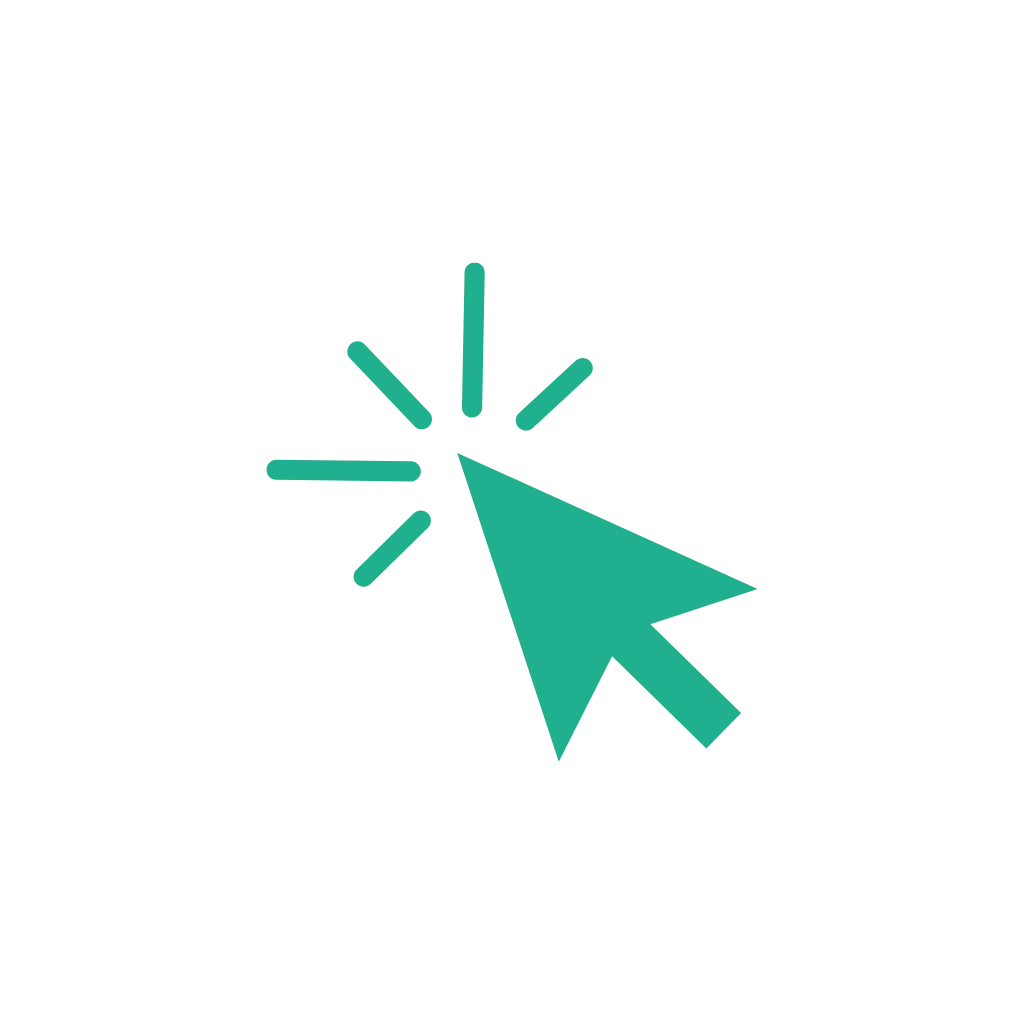
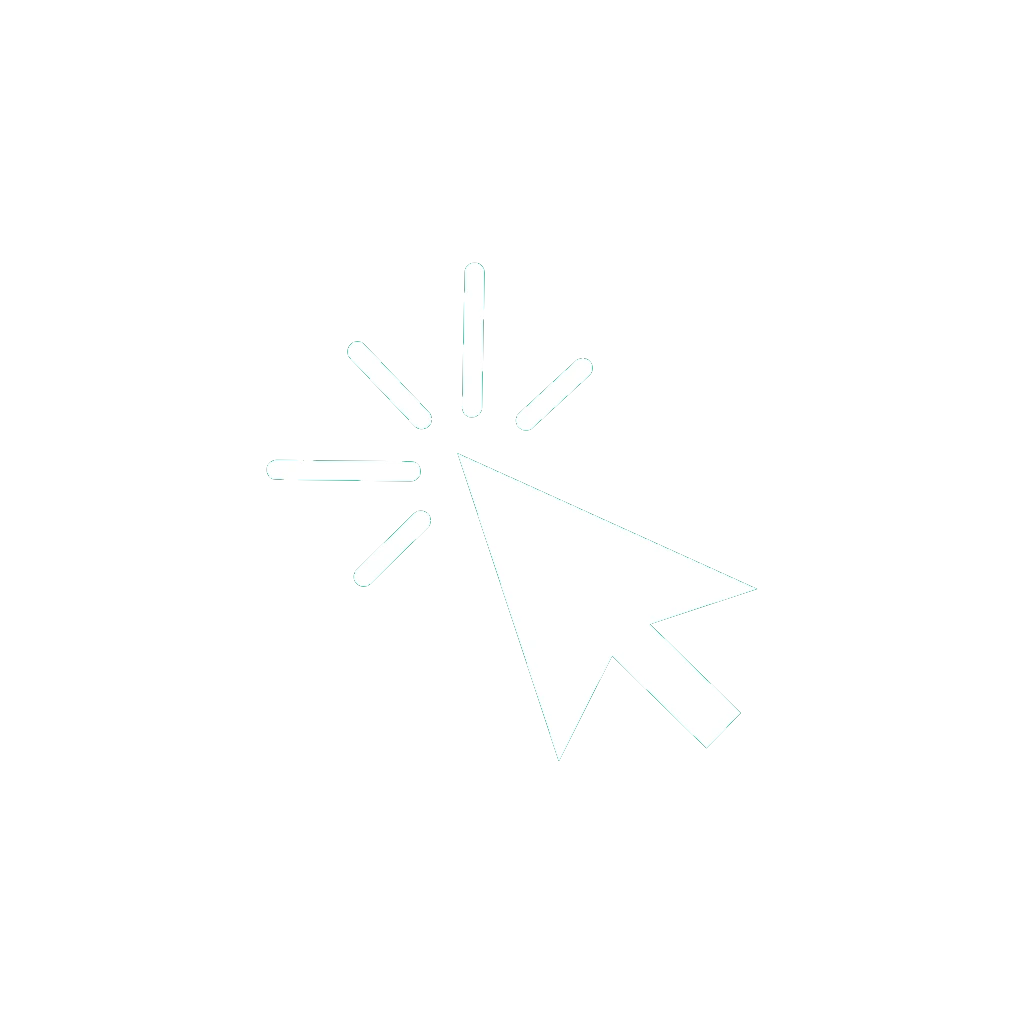
Saving latest changes

diff --git a/src/iconMap.js b/src/iconMap.js
@@ -19,11 +19,13 @@ import CalenderIconAsset from './assets/Calender Icon.webp';
 import CameraAsset from './assets/Camera.webp';
 import ChargingPlugAsset from './assets/ChargingPlug.webp';
 import CheckmarkAsset from './assets/Checkmark.webp';
+import CheckmarkWhiteAsset from './assets/CheckmarkWhite.webp';
 import ClockAsset from './assets/Clock.webp';
 import CloseAsset from './assets/Close.webp';
 import ClubAsset from './assets/Club.webp';
 import CoffeeAsset from './assets/Coffee.webp';
 import CoinsAsset from './assets/Coins.webp';
+import CoinsWhiteAsset from './assets/CoinsWhite.webp';
 import CollabrativeTablesAsset from './assets/Collabrative Tables.webp';
 import CommentAsset from './assets/Comment.webp';
 import ComplimentaryRefreshmentsAsset from './assets/ComplimentaryRefreshments.webp';
@@ -41,6 +43,7 @@ import DownloadAsset from './assets/Download.webp';
 import DrinksAsset from './assets/Drinks.webp';
 import EditAsset from './assets/Edit.webp';
 import EmailAsset from './assets/Email.webp';
+import Email1Asset from './assets/Email1.webp';
 import EmployeeManagementAsset from './assets/EmployeeManagement.webp';
 import EntitiesAsset from './assets/Entities.webp';
 import EntityOwnerAsset from './assets/EntityOwner.webp';
@@ -67,6 +70,7 @@ import JoinUsAsset from './assets/JoinUs.webp';
 import LateNightHoursAsset from './assets/LateNightHours.webp';
 import LayerGroupAsset from './assets/Layer Group.webp';
 import LeftArrowAsset from './assets/Left Arrow.webp';
+import LeftArrowWhiteAsset from './assets/LeftArrowWhite.webp';
 import LeisureIntegrationAsset from './assets/LeisureIntegration.webp';
 import LightningIconAsset from './assets/Lightning Icon.webp';
 import LinkedinAsset from './assets/Linkedin.webp';
@@ -85,8 +89,10 @@ import MinusAsset from './assets/Minus.webp';
 import MobileAsset from './assets/Mobile.webp';
 import MoreOptionsAsset from './assets/More Options.webp';
 import MousePointerAsset from './assets/Mouse Pointer.webp';
+import MousePointer2Asset from './assets/Mouse Pointer2.webp';
 import MyBookingsAsset from './assets/MyBookings.webp';
 import MyCreditsAsset from './assets/MyCredits.webp';
+import MyCreditsWhiteAsset from './assets/MyCreditsWhite.webp';
 import MyOrganizationAsset from './assets/MyOrganization.webp';
 import MySubscriptionAsset from './assets/MySubscription.webp';
 import NatureFriendlyAsset from './assets/Nature Friendly.webp';
@@ -106,8 +112,10 @@ import PetFriendlyAsset from './assets/Pet Friendly.webp';
 import PetFriendly2Asset from './assets/PetFriendly.webp';
 import PhoneAsset from './assets/Phone.webp';
 import PhoneNumberAsset from './assets/PhoneNumber.webp';
+import PhoneNumber1Asset from './assets/PhoneNumber1.webp';
 import PlansAsset from './assets/Plans.webp';
 import PlusAsset from './assets/Plus.webp';
+import PlusWhiteAsset from './assets/PlusWhite.webp';
 import PoolTableAsset from './assets/PoolTable.webp';
 import PrimeLocationsAsset from './assets/PrimeLocations.webp';
 import PrinterAsset from './assets/Printer.webp';
@@ -127,6 +135,7 @@ import RestroomAsset from './assets/Restroom.webp';
 import RevenueEnhancementAsset from './assets/RevenueEnhancement.webp';
 import RewindAsset from './assets/Rewind.webp';
 import RightArrowAsset from './assets/Right Arrow.webp';
+import RightArrowWhiteAsset from './assets/RightArrowWhite.webp';
 import RupeeAsset from './assets/Rupee.webp';
 import SaveAsset from './assets/Save.webp';
 import SearchAsset from './assets/Search.webp';
@@ -196,11 +205,13 @@ export const iconMap = {
   "Camera": CameraAsset,
   "ChargingPlug": ChargingPlugAsset,
   "Checkmark": CheckmarkAsset,
+  "CheckmarkWhite": CheckmarkWhiteAsset,
   "Clock": ClockAsset,
   "Close": CloseAsset,
   "Club": ClubAsset,
   "Coffee": CoffeeAsset,
   "Coins": CoinsAsset,
+  "CoinsWhite": CoinsWhiteAsset,
   "CollabrativeTables": CollabrativeTablesAsset,
   "Comment": CommentAsset,
   "ComplimentaryRefreshments": ComplimentaryRefreshmentsAsset,
@@ -218,6 +229,7 @@ export const iconMap = {
   "Drinks": DrinksAsset,
   "Edit": EditAsset,
   "Email": EmailAsset,
+  "Email1": Email1Asset,
   "EmployeeManagement": EmployeeManagementAsset,
   "Entities": EntitiesAsset,
   "EntityOwner": EntityOwnerAsset,
@@ -244,6 +256,7 @@ export const iconMap = {
   "LateNightHours": LateNightHoursAsset,
   "LayerGroup": LayerGroupAsset,
   "LeftArrow": LeftArrowAsset,
+  "LeftArrowWhite": LeftArrowWhiteAsset,
   "LeisureIntegration": LeisureIntegrationAsset,
   "LightningIcon": LightningIconAsset,
   "Linkedin": LinkedinAsset,
@@ -262,8 +275,10 @@ export const iconMap = {
   "Mobile": MobileAsset,
   "MoreOptions": MoreOptionsAsset,
   "MousePointer": MousePointerAsset,
+  "MousePointer2": MousePointer2Asset,
   "MyBookings": MyBookingsAsset,
   "MyCredits": MyCreditsAsset,
+  "MyCreditsWhite": MyCreditsWhiteAsset,
   "MyOrganization": MyOrganizationAsset,
   "MySubscription": MySubscriptionAsset,
   "NatureFriendly": NatureFriendlyAsset,
@@ -283,8 +298,10 @@ export const iconMap = {
   "PetFriendly_2": PetFriendly2Asset,
   "Phone": PhoneAsset,
   "PhoneNumber": PhoneNumberAsset,
+  "PhoneNumber1": PhoneNumber1Asset,
   "Plans": PlansAsset,
   "Plus": PlusAsset,
+  "PlusWhite": PlusWhiteAsset,
   "PoolTable": PoolTableAsset,
   "PrimeLocations": PrimeLocationsAsset,
   "Printer": PrinterAsset,
@@ -304,6 +321,7 @@ export const iconMap = {
   "RevenueEnhancement": RevenueEnhancementAsset,
   "Rewind": RewindAsset,
   "RightArrow": RightArrowAsset,
+  "RightArrowWhite": RightArrowWhiteAsset,
   "Rupee": RupeeAsset,
   "Save": SaveAsset,
   "Search": SearchAsset,

diff --git a/flutter_lib/lib/icon_map.dart b/flutter_lib/lib/icon_map.dart
@@ -22,11 +22,13 @@ class IconMap {
     'Camera': 'assets/icons/Camera.webp',
     'ChargingPlug': 'assets/icons/ChargingPlug.webp',
     'Checkmark': 'assets/icons/Checkmark.webp',
+    'CheckmarkWhite': 'assets/icons/CheckmarkWhite.webp',
     'Clock': 'assets/icons/Clock.webp',
     'Close': 'assets/icons/Close.webp',
     'Club': 'assets/icons/Club.webp',
     'Coffee': 'assets/icons/Coffee.webp',
     'Coins': 'assets/icons/Coins.webp',
+    'CoinsWhite': 'assets/icons/CoinsWhite.webp',
     'CollabrativeTables': 'assets/icons/Collabrative Tables.webp',
     'Comment': 'assets/icons/Comment.webp',
     'ComplimentaryRefreshments': 'assets/icons/ComplimentaryRefreshments.webp',
@@ -44,6 +46,7 @@ class IconMap {
     'Drinks': 'assets/icons/Drinks.webp',
     'Edit': 'assets/icons/Edit.webp',
     'Email': 'assets/icons/Email.webp',
+    'Email1': 'assets/icons/Email1.webp',
     'EmployeeManagement': 'assets/icons/EmployeeManagement.webp',
     'Entities': 'assets/icons/Entities.webp',
     'EntityOwner': 'assets/icons/EntityOwner.webp',
@@ -70,6 +73,7 @@ class IconMap {
     'LateNightHours': 'assets/icons/LateNightHours.webp',
     'LayerGroup': 'assets/icons/Layer Group.webp',
     'LeftArrow': 'assets/icons/Left Arrow.webp',
+    'LeftArrowWhite': 'assets/icons/LeftArrowWhite.webp',
     'LeisureIntegration': 'assets/icons/LeisureIntegration.webp',
     'LightningIcon': 'assets/icons/Lightning Icon.webp',
     'Linkedin': 'assets/icons/Linkedin.webp',
@@ -88,8 +92,10 @@ class IconMap {
     'Mobile': 'assets/icons/Mobile.webp',
     'MoreOptions': 'assets/icons/More Options.webp',
     'MousePointer': 'assets/icons/Mouse Pointer.webp',
+    'MousePointer2': 'assets/icons/Mouse Pointer2.webp',
     'MyBookings': 'assets/icons/MyBookings.webp',
     'MyCredits': 'assets/icons/MyCredits.webp',
+    'MyCreditsWhite': 'assets/icons/MyCreditsWhite.webp',
     'MyOrganization': 'assets/icons/MyOrganization.webp',
     'MySubscription': 'assets/icons/MySubscription.webp',
     'NatureFriendly': 'assets/icons/Nature Friendly.webp',
@@ -109,8 +115,10 @@ class IconMap {
     'PetFriendly_2': 'assets/icons/PetFriendly.webp',
     'Phone': 'assets/icons/Phone.webp',
     'PhoneNumber': 'assets/icons/PhoneNumber.webp',
+    'PhoneNumber1': 'assets/icons/PhoneNumber1.webp',
     'Plans': 'assets/icons/Plans.webp',
     'Plus': 'assets/icons/Plus.webp',
+    'PlusWhite': 'assets/icons/PlusWhite.webp',
     'PoolTable': 'assets/icons/PoolTable.webp',
     'PrimeLocations': 'assets/icons/PrimeLocations.webp',
     'Printer': 'assets/icons/Printer.webp',
@@ -130,6 +138,7 @@ class IconMap {
     'RevenueEnhancement': 'assets/icons/RevenueEnhancement.webp',
     'Rewind': 'assets/icons/Rewind.webp',
     'RightArrow': 'assets/icons/Right Arrow.webp',
+    'RightArrowWhite': 'assets/icons/RightArrowWhite.webp',
     'Rupee': 'assets/icons/Rupee.webp',
     'Save': 'assets/icons/Save.webp',
     'Search': 'assets/icons/Search.webp',

diff --git a/src/utils.js b/src/utils.js
@@ -6,7 +6,6 @@ const iconCache = {}; // Cache for storing resolved icon URLs
 export function getIconUrl(iconName) {
   // Check if the icon URL is already in the cache
   if (iconCache[iconName]) {
-    console.log(`Icon "${iconName}" found in cache.`);
     return iconCache[iconName];
   }
 
@@ -18,6 +17,5 @@ export function getIconUrl(iconName) {
 
   // Store the resolved URL in the cache before returning
   iconCache[iconName] = imageUrl;
-  console.log(`Icon "${iconName}" resolved to "${imageUrl}" and cached.`);
   return imageUrl;
 }

diff --git a/vite.config.js b/vite.config.js
@@ -1,8 +1,11 @@
 import { defineConfig } from 'vite';
 import path from 'path';
+// import { compression } from 'vite-plugin-compression2';
 
 export default defineConfig({
-  plugins: [], // Removed react() plugin
+  plugins: [
+    // compression()
+  ], // Removed react() plugin
   build: {
     lib: {
       entry: path.resolve(__dirname, 'src/index.js'), // Updated entry point
